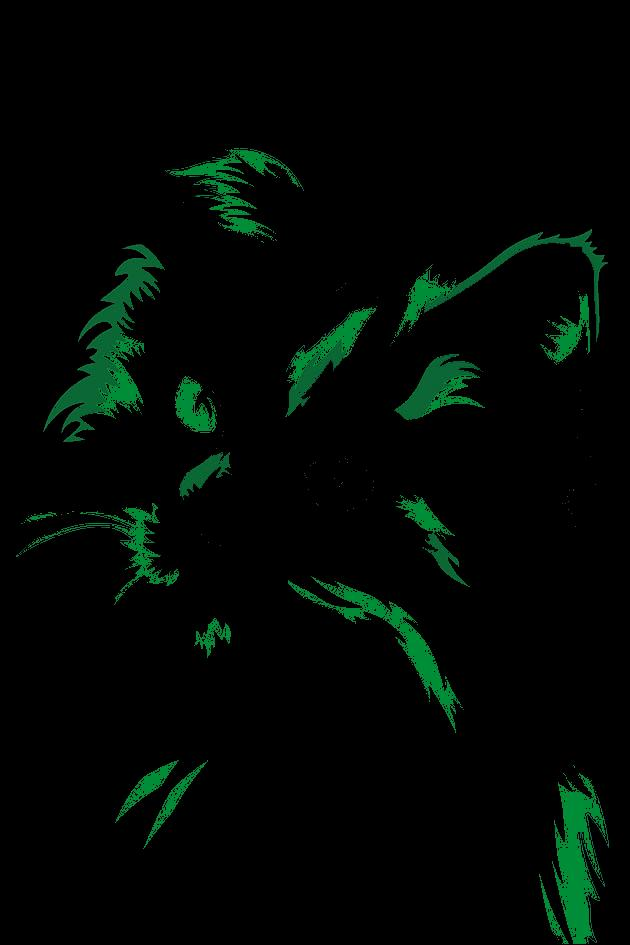
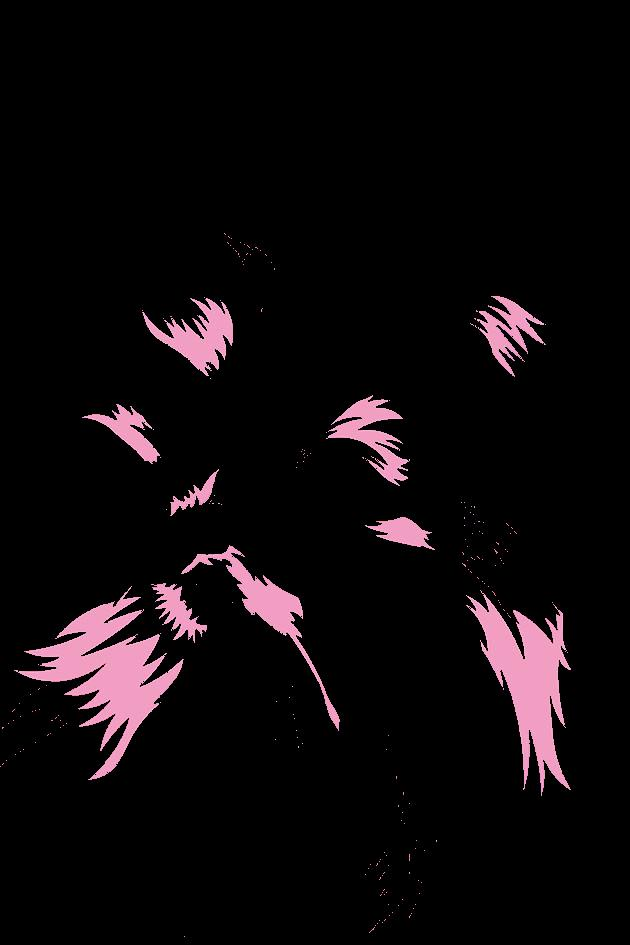
огп

diff --git a/lab2/4/lab2.4.2.py b/lab2/4/lab2.4.2.py
@@ -1,8 +1,7 @@
 from PIL import Image
 import numpy as np
 import pandas as pd
-from neural_network import  create_neural_network, train_neural_network, split_data, Neuron, evaluate_neural_network
-
+from neural_network import create_neural_network, train_neural_network, split_data, Neuron, evaluate_neural_network
 
 # def get_errors(neural_net, test_data):
 #     errors = []
@@ -21,11 +20,13 @@ image = Image.open('kotik.jpg')
 pixel_colors = np.array(image)
 
 # Шаг 2: Выбор цвета, который вы хотите выделить, и выделение соответствующих участков
-target_color = np.array([10, 106, 69])
+target_color = np.array([242, 158, 194])  # 10, 106, 69
 tolerance = 40
+
 
 def is_target_color(color):
     return np.all(np.abs(color - target_color) < tolerance)
+
 
 mask_target_color = np.array([[is_target_color(color) for color in row] for row in pixel_colors])
 pixels_with_target_color = pixel_colors[mask_target_color]
@@ -59,7 +60,6 @@ shuffled_training_data = training_data.sample(frac=1).reset_index(drop=True)
 print(training_data)
 print(shuffled_training_data)
 
-
 # Нормализуем данные
 shuffled_training_data[['R', 'G', 'B']] = training_data[['R', 'G', 'B']] / 255.0
 
@@ -84,12 +84,10 @@ evaluate_neural_network(neural_net, train_data)
 
 train_neural_network(neural_net, train_data, learning_rate=0.00001, epochs=10)
 
-
 print(neural_net.neurons[0].get_weights())
 
 evaluate_neural_network(neural_net, test_data)
 evaluate_neural_network(neural_net, train_data)
-
 
 # print(1 in get_errors(neural_net, test_data))
 #
